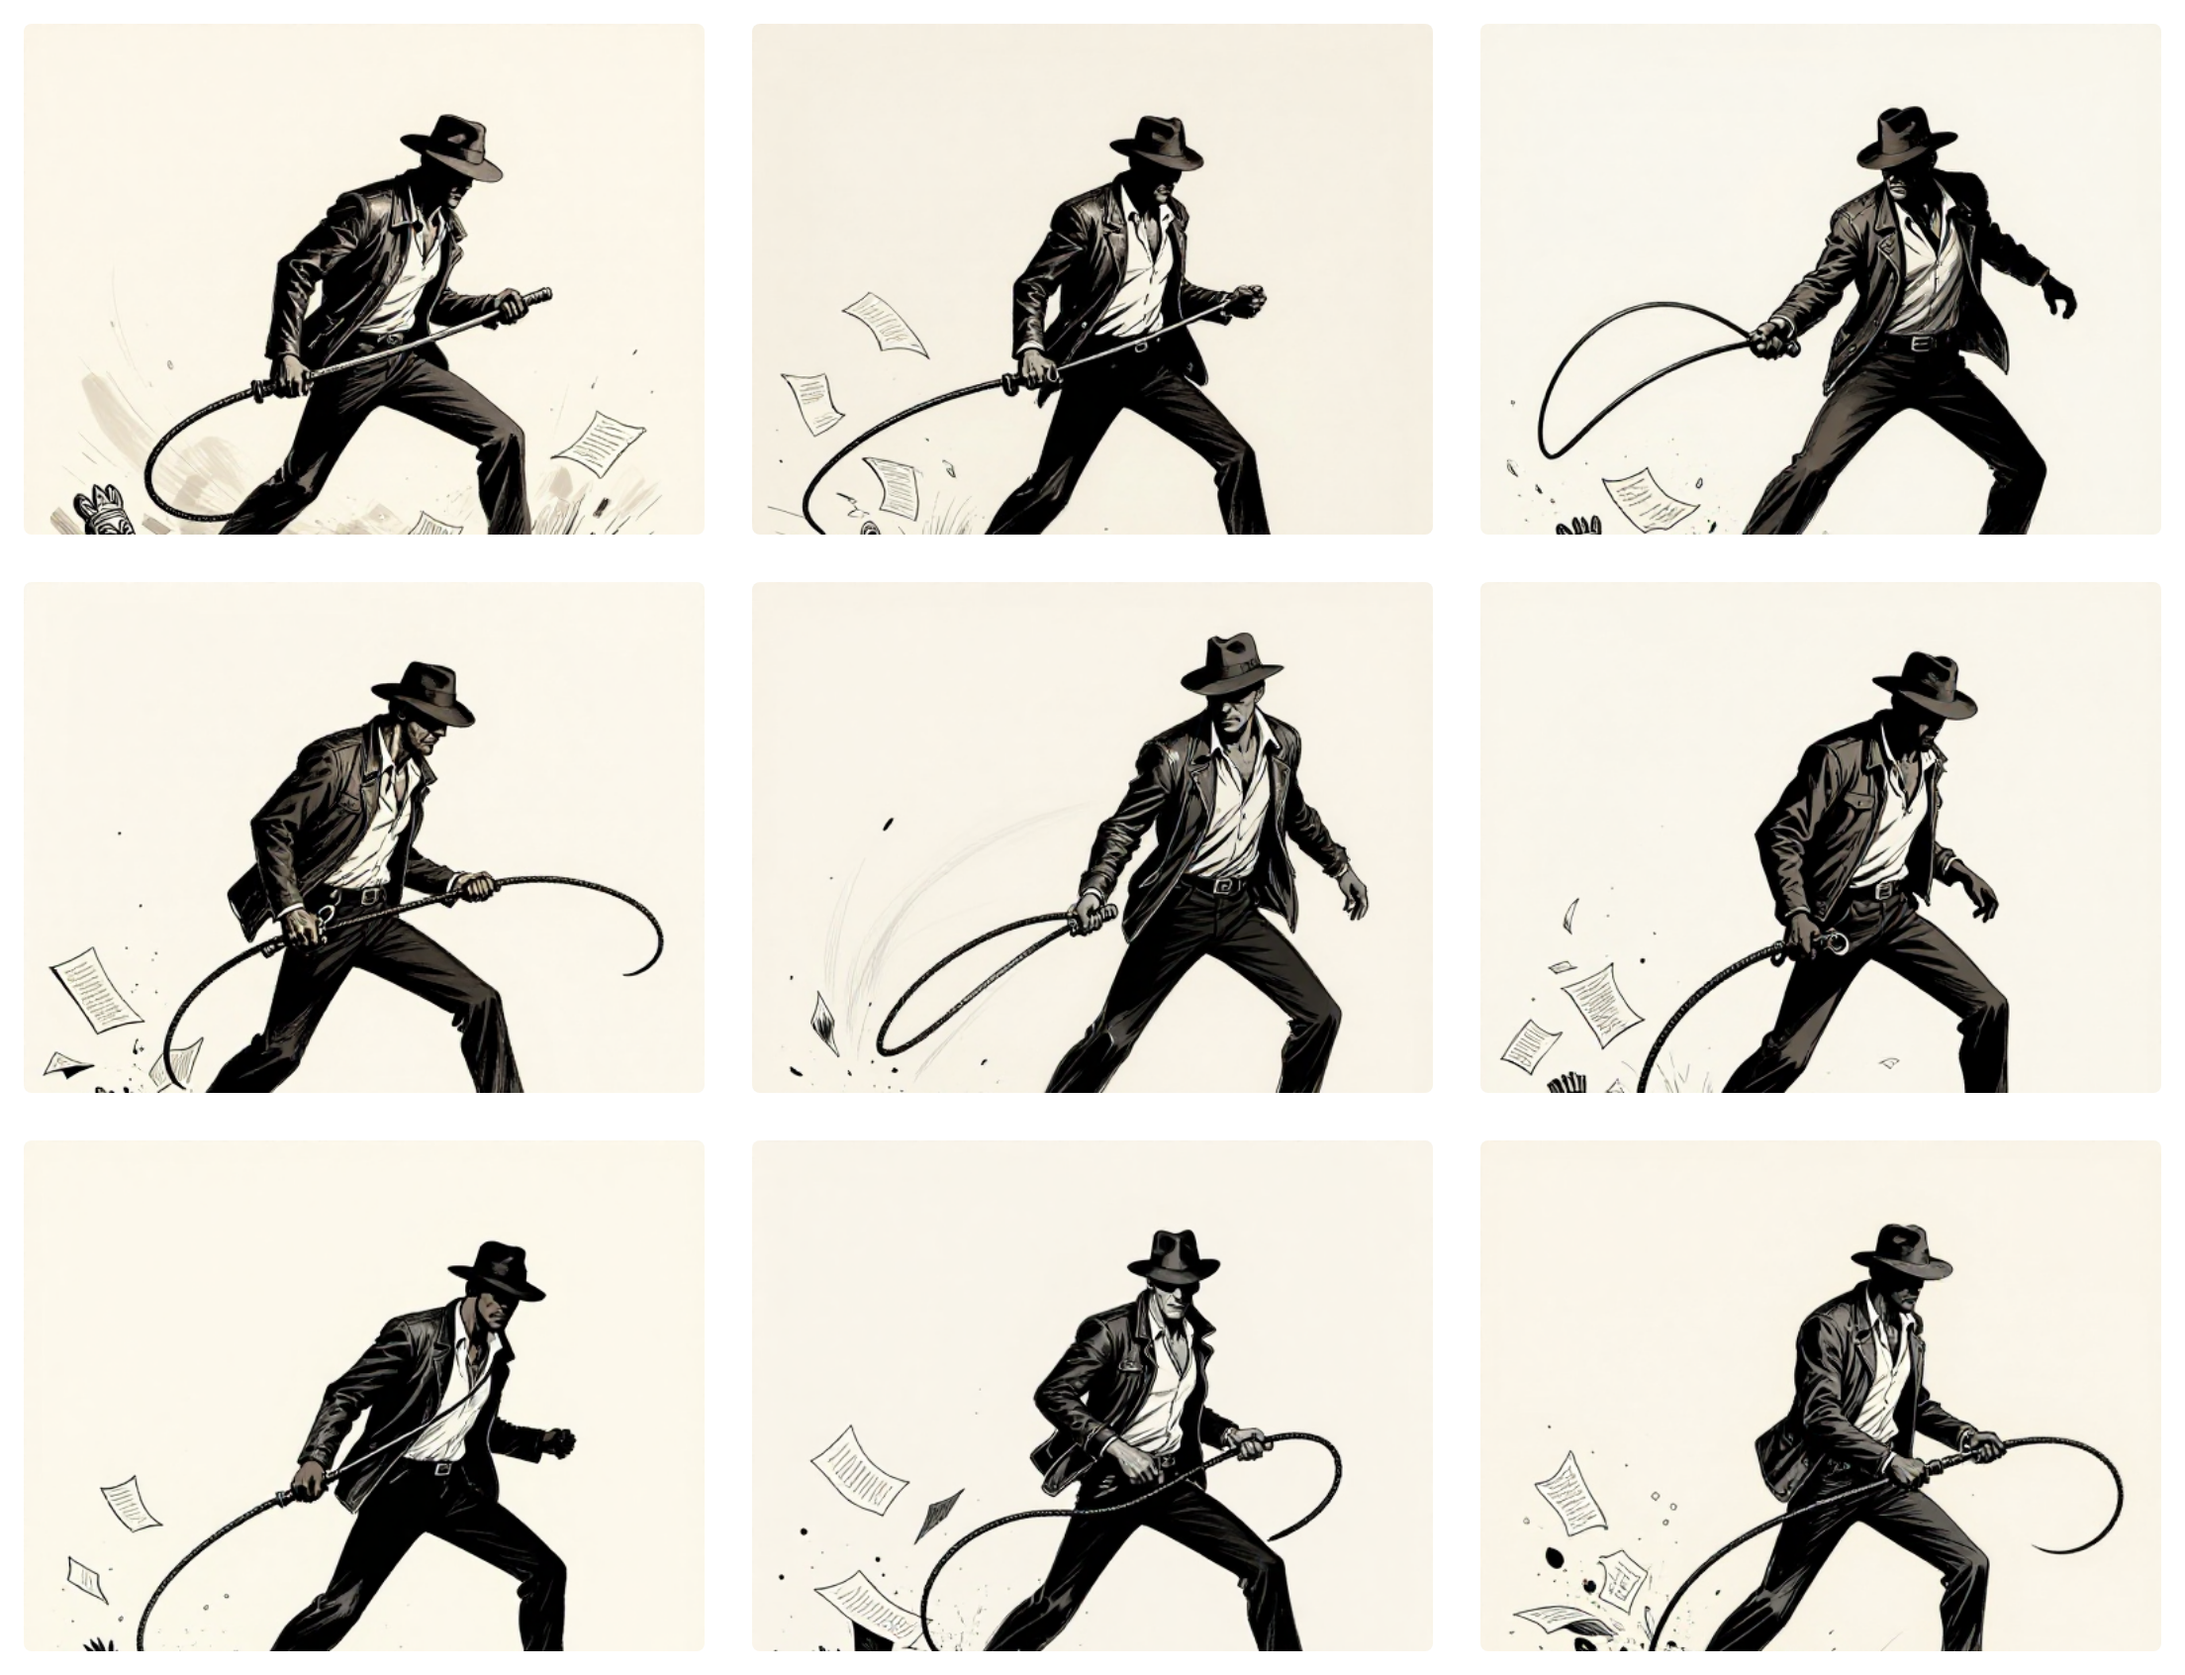
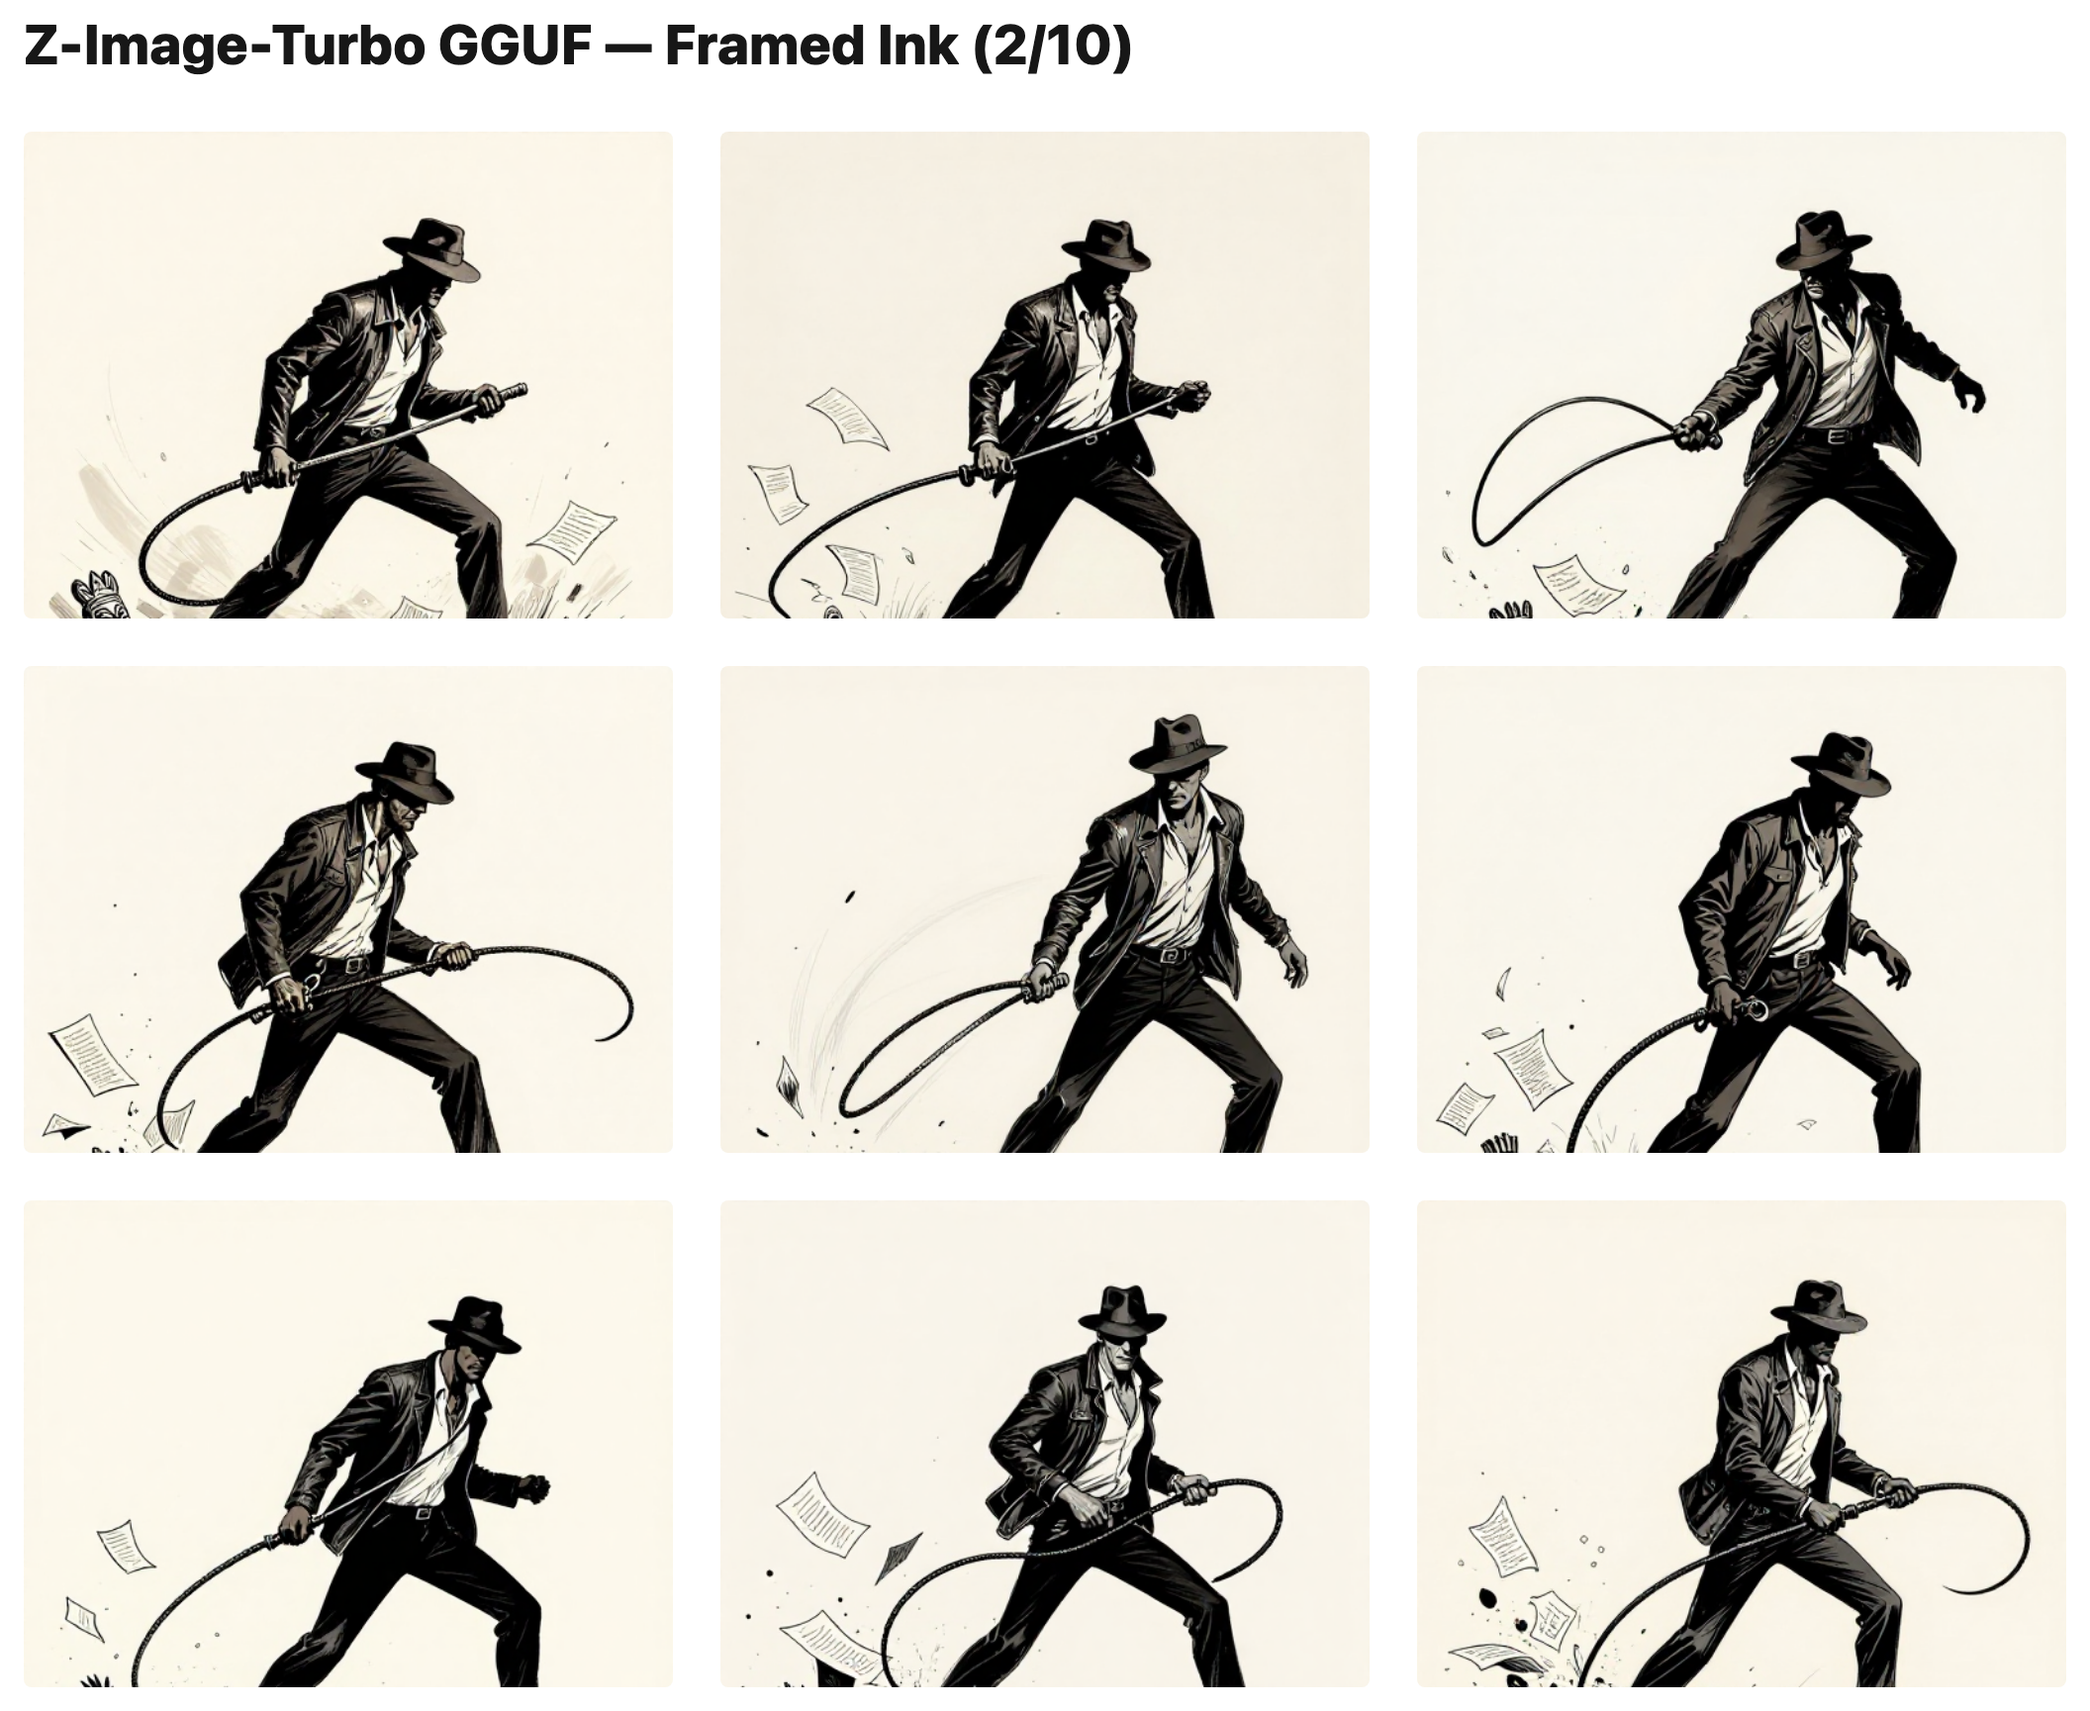
[draft] 四张变体网格补上标题: 之前网格只有图片没有标题，回到 draft.md 的分组标题里才能对上是哪个模型/风格，补上后每张网格独立可读，标题文字直接复用 draft.md 里已有的 heading（Z-Image-Turbo GGUF — Original real photo (6/10) 等），不新造文案

diff --git a/articles/framed-ink-variation-collapse/flux-original-variation-grid.source.html b/articles/framed-ink-variation-collapse/flux-original-variation-grid.source.html
@@ -7,7 +7,10 @@
 </style>
 </head>
 <body style="display:inline-block">
-<div style="width: 1160px; box-sizing: border-box; background: #ffffff; padding: 40px; display: flex; flex-direction: column;">
+<div style="width: 1160px; box-sizing: border-box; background: #ffffff; padding: 64px; display: flex; flex-direction: column; gap: 28px;">
+  <div style="display: flex; flex-direction: column; gap: 8px;">
+    <h2 style="margin: 0; font-size: 28px; font-weight: 800; color: #171717;">Flux.2 Klein 4B GGUF — Original real photo (8/10)</h2>
+  </div>
   <div style="display: grid; grid-template-columns: repeat(3, minmax(0, 1fr)); gap: 24px;">
     
     <figure style="margin: 0;">

diff --git a/articles/framed-ink-variation-collapse/zimage-original-variation-grid.source.html b/articles/framed-ink-variation-collapse/zimage-original-variation-grid.source.html
@@ -7,7 +7,10 @@
 </style>
 </head>
 <body style="display:inline-block">
-<div style="width: 1160px; box-sizing: border-box; background: #ffffff; padding: 40px; display: flex; flex-direction: column;">
+<div style="width: 1160px; box-sizing: border-box; background: #ffffff; padding: 64px; display: flex; flex-direction: column; gap: 28px;">
+  <div style="display: flex; flex-direction: column; gap: 8px;">
+    <h2 style="margin: 0; font-size: 28px; font-weight: 800; color: #171717;">Z-Image-Turbo GGUF — Original real photo (6/10)</h2>
+  </div>
   <div style="display: grid; grid-template-columns: repeat(3, minmax(0, 1fr)); gap: 24px;">
     
     <figure style="margin: 0;">

diff --git a/articles/framed-ink-variation-collapse/flux-framedink-variation-grid.source.html b/articles/framed-ink-variation-collapse/flux-framedink-variation-grid.source.html
@@ -7,7 +7,10 @@
 </style>
 </head>
 <body style="display:inline-block">
-<div style="width: 1160px; box-sizing: border-box; background: #ffffff; padding: 40px; display: flex; flex-direction: column;">
+<div style="width: 1160px; box-sizing: border-box; background: #ffffff; padding: 64px; display: flex; flex-direction: column; gap: 28px;">
+  <div style="display: flex; flex-direction: column; gap: 8px;">
+    <h2 style="margin: 0; font-size: 28px; font-weight: 800; color: #171717;">Flux.2 Klein 4B GGUF — Framed Ink (3/10)</h2>
+  </div>
   <div style="display: grid; grid-template-columns: repeat(3, minmax(0, 1fr)); gap: 24px;">
     
     <figure style="margin: 0;">

diff --git a/articles/framed-ink-variation-collapse/zimage-framedink-variation-grid.source.html b/articles/framed-ink-variation-collapse/zimage-framedink-variation-grid.source.html
@@ -7,7 +7,10 @@
 </style>
 </head>
 <body style="display:inline-block">
-<div style="width: 1160px; box-sizing: border-box; background: #ffffff; padding: 40px; display: flex; flex-direction: column;">
+<div style="width: 1160px; box-sizing: border-box; background: #ffffff; padding: 64px; display: flex; flex-direction: column; gap: 28px;">
+  <div style="display: flex; flex-direction: column; gap: 8px;">
+    <h2 style="margin: 0; font-size: 28px; font-weight: 800; color: #171717;">Z-Image-Turbo GGUF — Framed Ink (2/10)</h2>
+  </div>
   <div style="display: grid; grid-template-columns: repeat(3, minmax(0, 1fr)); gap: 24px;">
     
     <figure style="margin: 0;">
